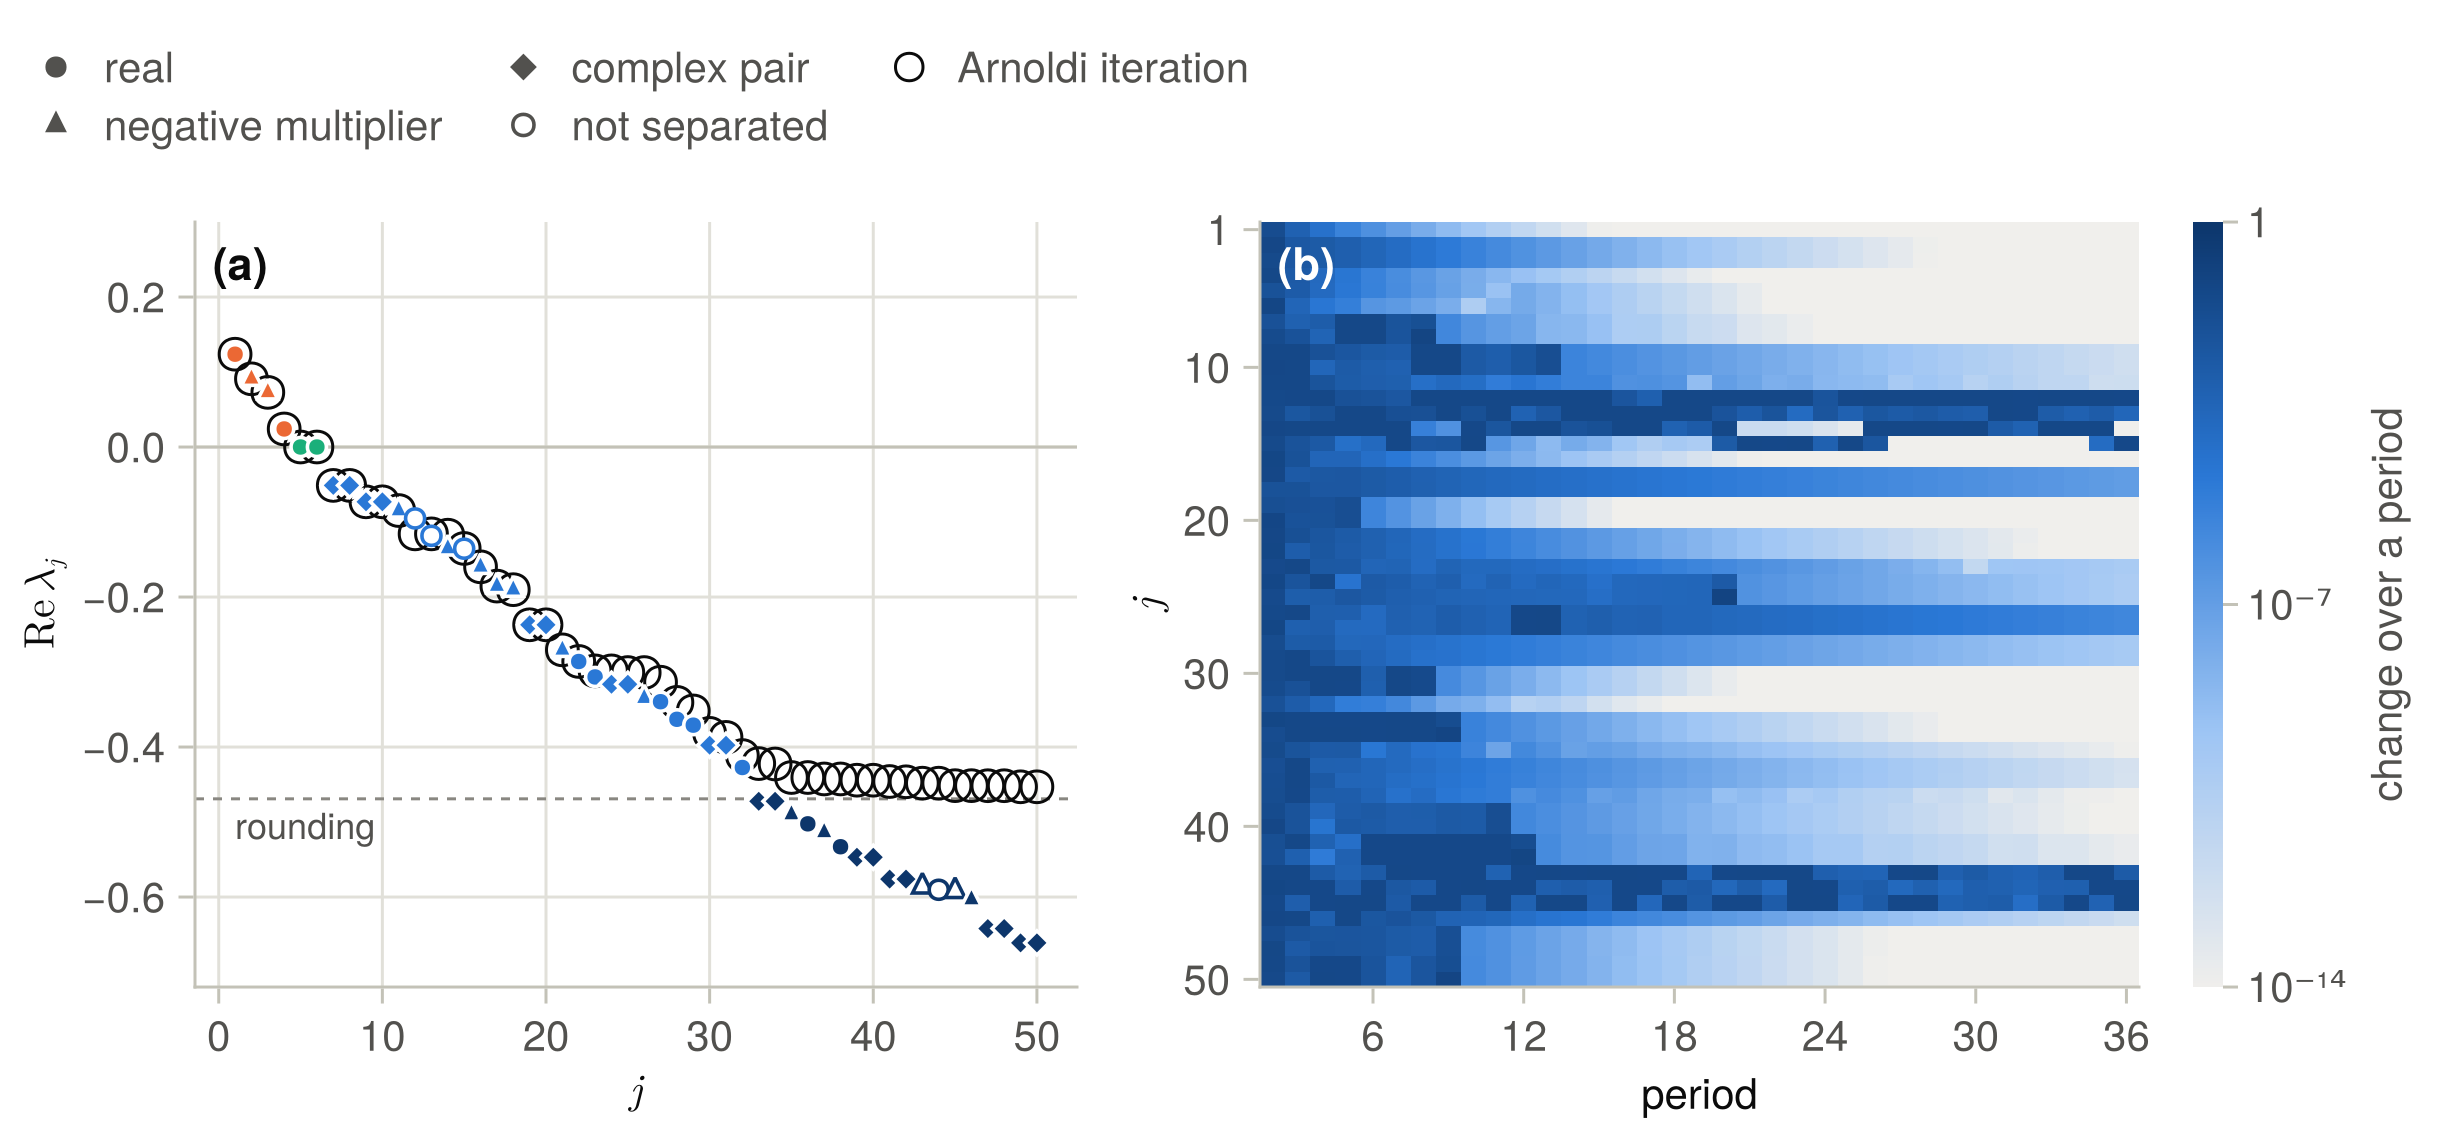
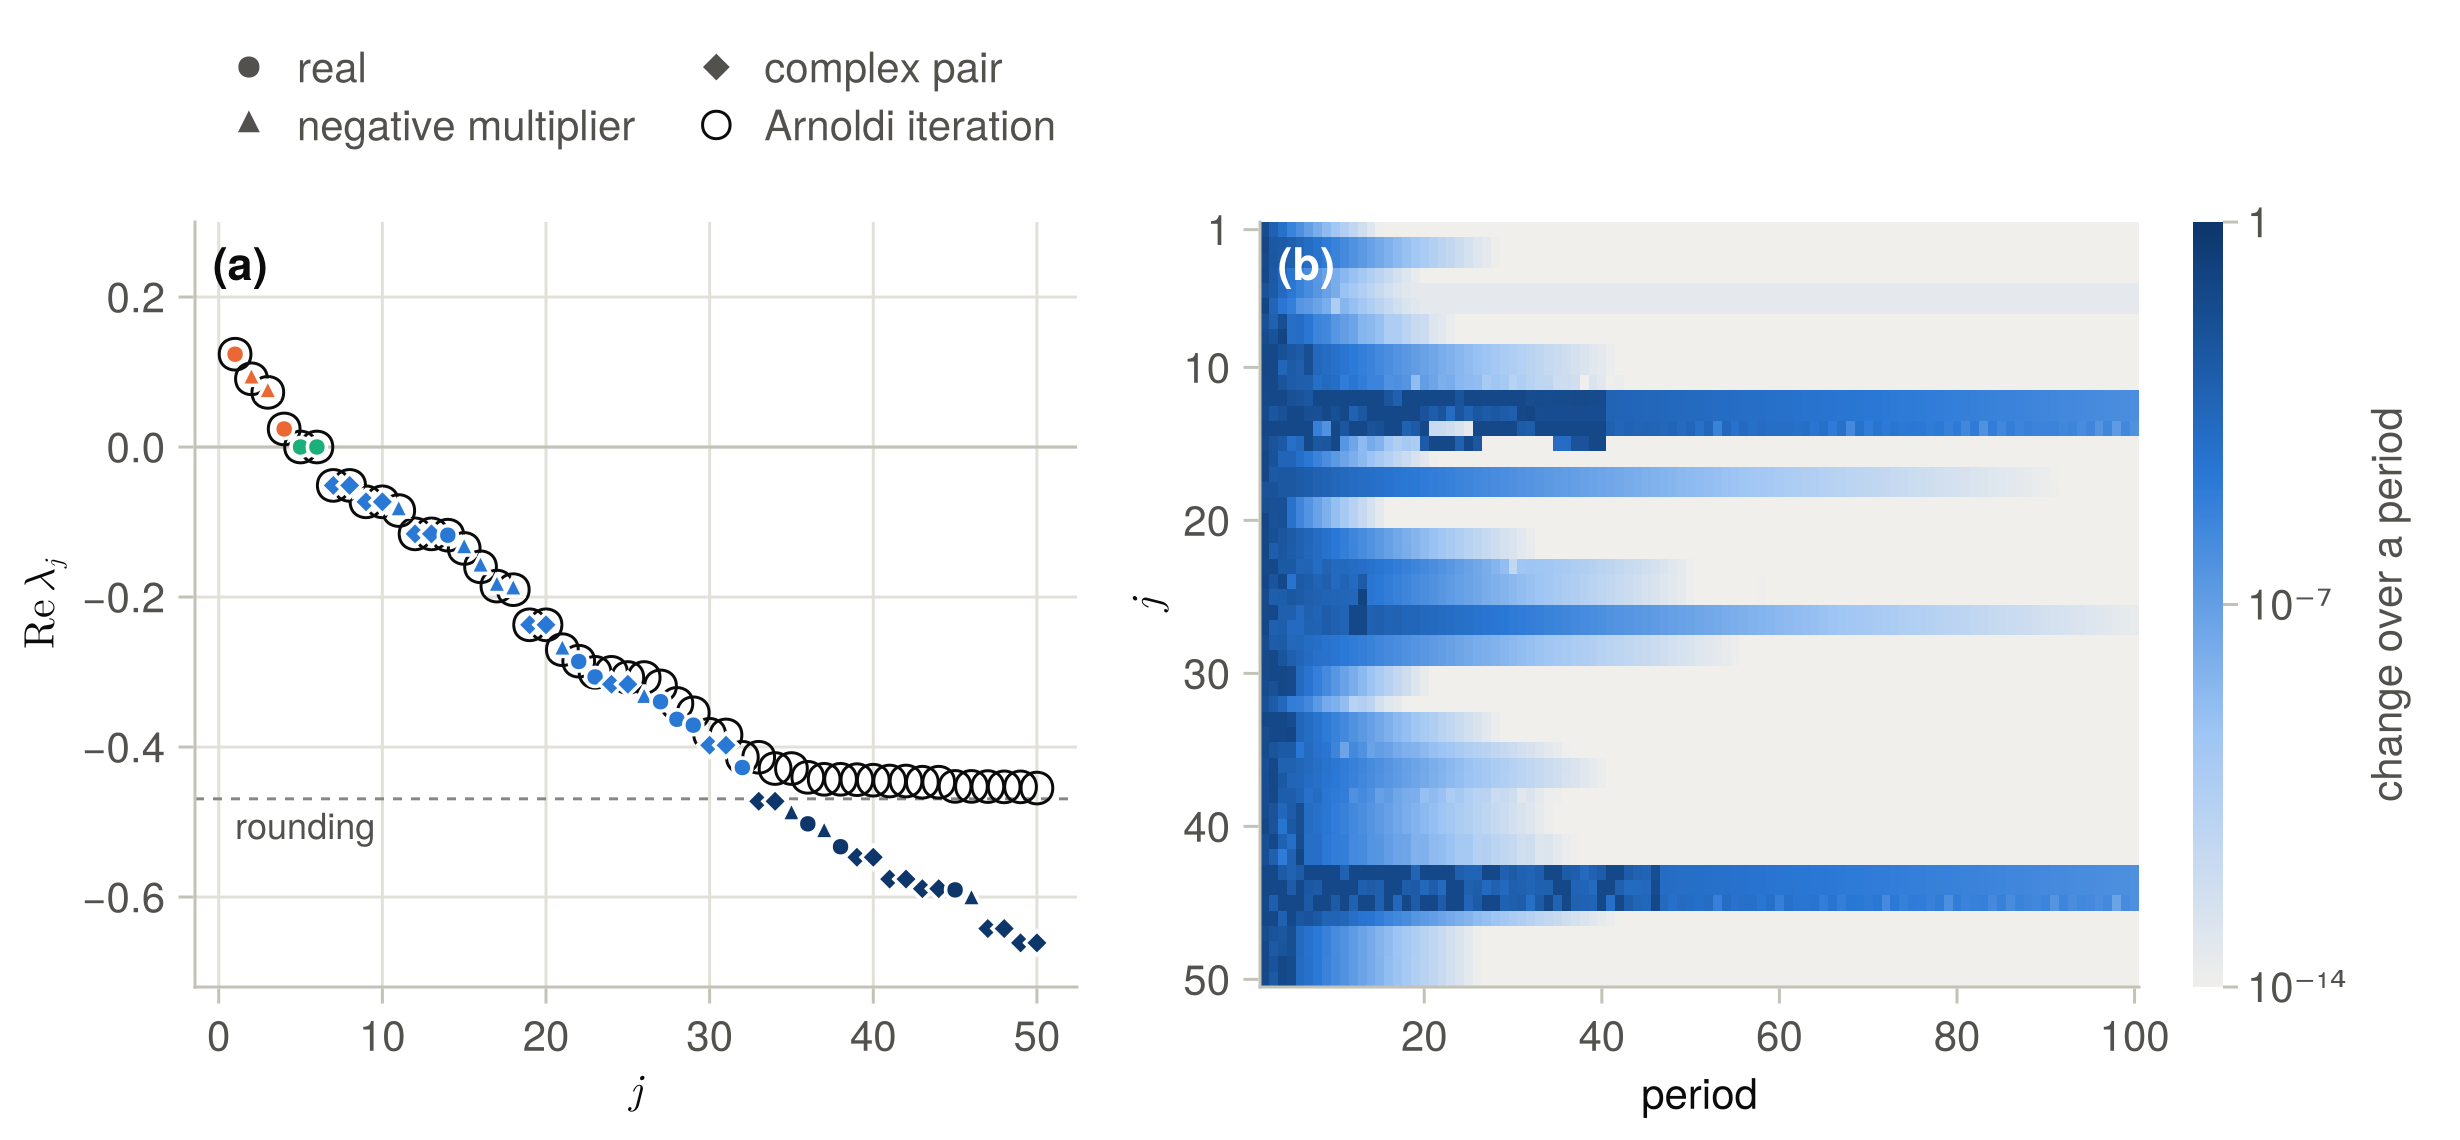
The classic Arnoldi iteration, algorithm = :arnoldi, and a longer deep run on the Kolmogorov orbit
floquet(...; algorithm = :arnoldi) takes N Krylov steps on the monodromy matrix, each one tangent
integration over the period followed by the shift, and returns the exponents of the Ritz values. Tests
on the Lorenz orbit AB and on a time-periodic system with negative multipliers and a pair.
kolmogorov_spectrum.jl calls it, and its Schur iteration now runs 100 periods, which separate the two
groups of nearly equal moduli near -0.12 and -0.59.

diff --git a/README.md b/README.md
@@ -365,10 +365,12 @@ The keyword arguments are listed in the following table.
 | `θtol`     | `1e-7`     | Tolerance to detect the $2\times 2$ rotation blocks of $D$ that flag complex pairs. |
 | `maxiter`  | `50`       | Maximum number of periods of each sweep. |
 | `verbose`  | `false`    | Print the exponents after each period of both sweeps. |
+| `algorithm` | `:schur`  | With `:arnoldi`, compute instead the exponents of the eigenvalues of the monodromy matrix by the Arnoldi iteration, as described below. |
 
 The function returns a named tuple with the fields of the following table. The fields that were not
 requested with `vectors` are `nothing`, and the first four fields are those of earlier versions of
-the package.
+the package. With `algorithm = :arnoldi`, only the first three fields are returned, and the others
+are `nothing`.
 
 | Field              | Returned with        | Content |
 |--------------------|----------------------|---------|
@@ -454,6 +456,33 @@ imex = floquet(lorenz_tan_ex, 3, T/n, store; A=Diagonal([-10.0, -1.0, -8/3]), me
 With the storage of the orbit AB of the next section, the exponents of this IMEX computation agree
 with those of RK4 to $3 \times 10^{-10}$, and its adjoint exponents agree with the forward ones to
 $2 \times 10^{-11}$.
+
+### The Arnoldi iteration
+
+With `algorithm = :arnoldi`, `floquet` computes instead the exponents of the eigenvalues of the
+monodromy matrix by the Arnoldi iteration, the usual method discussed in the comparison above. It
+builds an orthonormal basis of the Krylov space
+
+```math
+\mathcal{K}_N = \mathrm{span}\, \{ v, \tilde M v, \dots, \tilde M^{N-1} v \} ,
+```
+
+where $v$ is the normalised sum of the initial vectors, and returns the exponents of the $N$
+eigenvalues of the Hessenberg matrix of $\tilde M$ in this basis, the Ritz values. Each product
+$\tilde M v$ is one integration of the linearised equations over the period, followed by `shift`, so
+that the iteration costs as much as one period of the periodic Schur decomposition with $N$ vectors.
+The Ritz values converge from the leading one, and $N$ should exceed the number of wanted exponents.
+The multipliers smaller than about $\varepsilon |\Lambda_1|$ are lost, as for any eigenvalue solver
+applied to the monodromy matrix, so that the option serves for comparison. No vectors are returned,
+`periods` is $N$, and `converged` tells whether the residual estimates of all the Ritz pairs,
+relative to their Ritz values, are below `λtol`. For the orbit AB of the next section,
+
+```julia
+ritz = floquet(lorenz_tan, 3, T/n, store; algorithm=:arnoldi)
+```
+
+gives the two leading exponents of `floquet` to $10^{-11}$, and the stable one only to
+$10^{-5}$, since its multiplier is $2.5 \times 10^{-11}$ times the leading one.
 
 
 ## Examples
@@ -944,32 +973,38 @@ threads for the Fourier transforms.
 
 A longer run shows how deep into the stable part of the spectrum the periodic Schur decomposition
 reaches. The script [kolmogorov_spectrum.jl](examples/kolmogorov_spectrum.jl) computes fifty
-exponents of the same orbit, without the vectors,
+exponents of the same orbit, without the vectors, and the exponents of the eigenvalues of the
+monodromy matrix from 100 steps of the Arnoldi iteration, with the same integration of the
+linearised equations. A looser tolerance on the rotation blocks, `θtol = 1e-3`, finds the complex
+pairs among multipliers of nearly equal modulus before these have fully separated.
 
 ```julia
-# fifty random initial vectors, real fields of zero mean on the active modes
+# a hundred random initial vectors, real fields of zero mean on the active modes
 rng  = MersenneTwister(1)
-init = [FFT(Field(randn(rng, 2m + 2, 2m + 2)), n) for j = 1:50]
+init = [FFT(Field(randn(rng, 2m + 2, 2m + 2)), n) for j = 1:100]
 
-# fifty exponents without the vectors, over 36 periods
-deep = floquet(lex, 50, T/3040, store; A=lim, method=:CB4R3R4, init=init, oneevery=50,
-               shift = v -> xshift!(v, ℓ), λtol=1e-10, maxiter=36)
+# fifty exponents without the vectors, from the first fifty, over 100 periods
+deep = floquet(lex, 50, T/3040, store; A=lim, method=:CB4R3R4, init=init[1:50], oneevery=50,
+               shift = v -> xshift!(v, ℓ), λtol=1e-10, θtol=1e-3, maxiter=100)
+
+# the exponents of the Ritz values of 100 steps of the Arnoldi iteration, from the sum of the
+# hundred initial vectors, with the same integration of the linearised equations
+ritz = floquet(lex, 100, T/3040, store; A=lim, method=:CB4R3R4, init=init, algorithm=:arnoldi,
+               shift = v -> xshift!(v, ℓ))
 ```
 
-and the eigenvalues of the monodromy matrix $\tilde M$ from 100 steps of the Arnoldi iteration, in
-which each product $\tilde M v$ is one integration of the linearised equations over the period, with
-the same scheme and step.
-
-Figure 7 compares the two. The first eleven exponents agree to $10^{-11}$. Further down, the
-eigenvalues of $\tilde M$ lose accuracy as the multipliers shrink. They differ from the exponents of
-Floquet.jl by $10^{-4}$ at $j = 22$, where $|\Lambda_j/\Lambda_1| \approx 10^{-11}$, and from
-$j = 33$ they pile up between $-0.50$ and $-0.42$, about the level
-$\lambda_1 - \log(1/\varepsilon)/T = -0.47$ at which $|\Lambda_j/\Lambda_1|$ reaches the machine
-precision. The exponents of Floquet.jl continue down to $-0.66$, eighteen of them below that level.
-Most of them converge within the 36 periods, each at the rate of its gap to the next. Two groups of
-three, near $-0.12$ and $-0.59$, have not separated, because the moduli within each group are
-nearly equal, while the sum of each group has converged. The run takes about two hours on a laptop,
-with four threads.
+Figure 7 compares the two. The first eighteen exponents agree to $10^{-6}$, apart from the two zero
+exponents, which both methods give to the accuracy of the integration, $3 \times 10^{-8}$. Further
+down, the eigenvalues of $\tilde M$ lose accuracy as the multipliers shrink. They differ from the
+exponents of Floquet.jl by $4 \times 10^{-4}$ at $j = 22$, where
+$|\Lambda_j/\Lambda_1| \approx 10^{-11}$, and from $j = 33$ they pile up between $-0.49$ and
+$-0.41$, about the level $\lambda_1 - \log(1/\varepsilon)/T = -0.47$ at which
+$|\Lambda_j/\Lambda_1|$ reaches the machine precision. The exponents of Floquet.jl continue down to
+$-0.66$, eighteen of them below that level. Most of them converge well within the 100 periods. The
+last are two groups of three, near $-0.12$ and $-0.59$, each a complex pair and a real exponent
+whose moduli differ by a factor of about 0.9 per period. After 100 periods they change by about
+$10^{-6}$ from one period to the next. The run takes about five hours on a laptop, with four
+threads.
 
 <p align="center">
   <img src="assets/kolmogorov_exponents.png" alt="Fifty exponents of the relative periodic orbit of Kolmogorov flow against the eigenvalues of the monodromy matrix" width="820">
@@ -977,9 +1012,8 @@ with four threads.
 
 *Figure 7. Fifty exponents of the relative periodic orbit of Kolmogorov flow. (a) Real parts, with
 those of the eigenvalues of the monodromy matrix from the Arnoldi iteration (circles) and, dashed,
-the level at which $`|\Lambda_j/\Lambda_1|`$ reaches the machine precision. The exponents not yet
-separated from their neighbours are hollow. (b) Change of each exponent from one period of the
-iteration to the next.*
+the level at which $`|\Lambda_j/\Lambda_1|`$ reaches the machine precision. (b) Change of each
+exponent from one period of the iteration to the next.*
 
 Figure 8 animates the orbit and its three leading Floquet vectors over one period. The vectors are
 those at $t = 0$, carried along the orbit by the linearised equations and multiplied by
@@ -1121,7 +1155,9 @@ eigenvectors of linear systems with a complex pair, with negative multipliers wh
 differs from the order of the exponents, and with shifts that commute and that do not commute with
 the system, and on the relative periodic orbit of the previous section, where the flow and the group
 tangent must lie in the neutral plane. The basis of the plane of a pair must be the one closest to
-the Schur vectors of the pair at every time, and vary continuously along the orbit. The tests of RK8
+the Schur vectors of the pair at every time, and vary continuously along the orbit. The Arnoldi
+iteration is checked against the periodic Schur decomposition on the orbit AB, and against the
+multipliers of the linear systems with negative multipliers, a complex pair and a shift. The tests of RK8
 check the sum rule to $10^{-12}$, and run
 only with a Flows.jl that has RK8. Otherwise they check that `method = :RK8` gives an informative
 error. Run the tests with
@@ -1152,7 +1188,7 @@ julia -t 4 --project=examples examples/kolmogorov_spectrum.jl
 ```
 
 The first two scripts take a few minutes each, the third about fifteen, most of them for the two
-sweeps of `floquet` on the orbit of Kolmogorov flow, and the last one about two hours, for the fifty
+sweeps of `floquet` on the orbit of Kolmogorov flow, and the last one about five hours, for the fifty
 exponents of the same orbit. The logo is drawn by `assets/make_logo.jl`.
 
 
